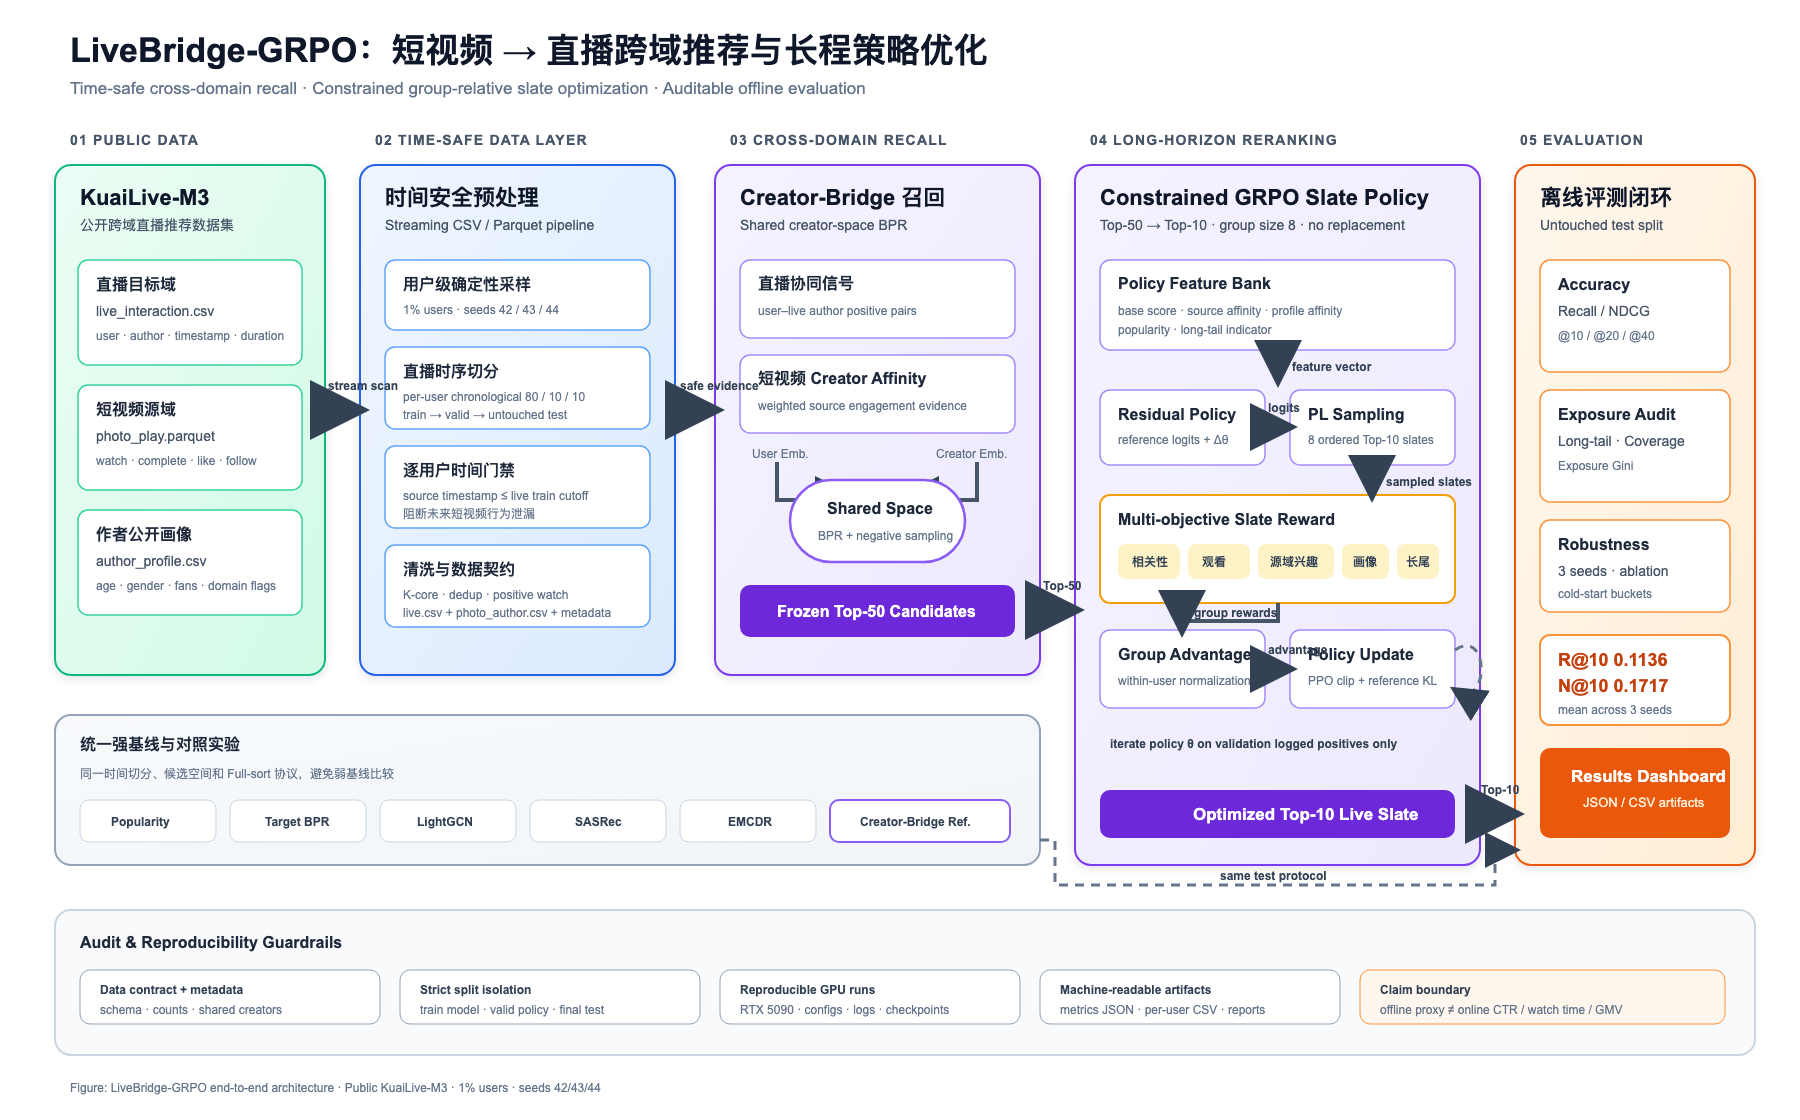
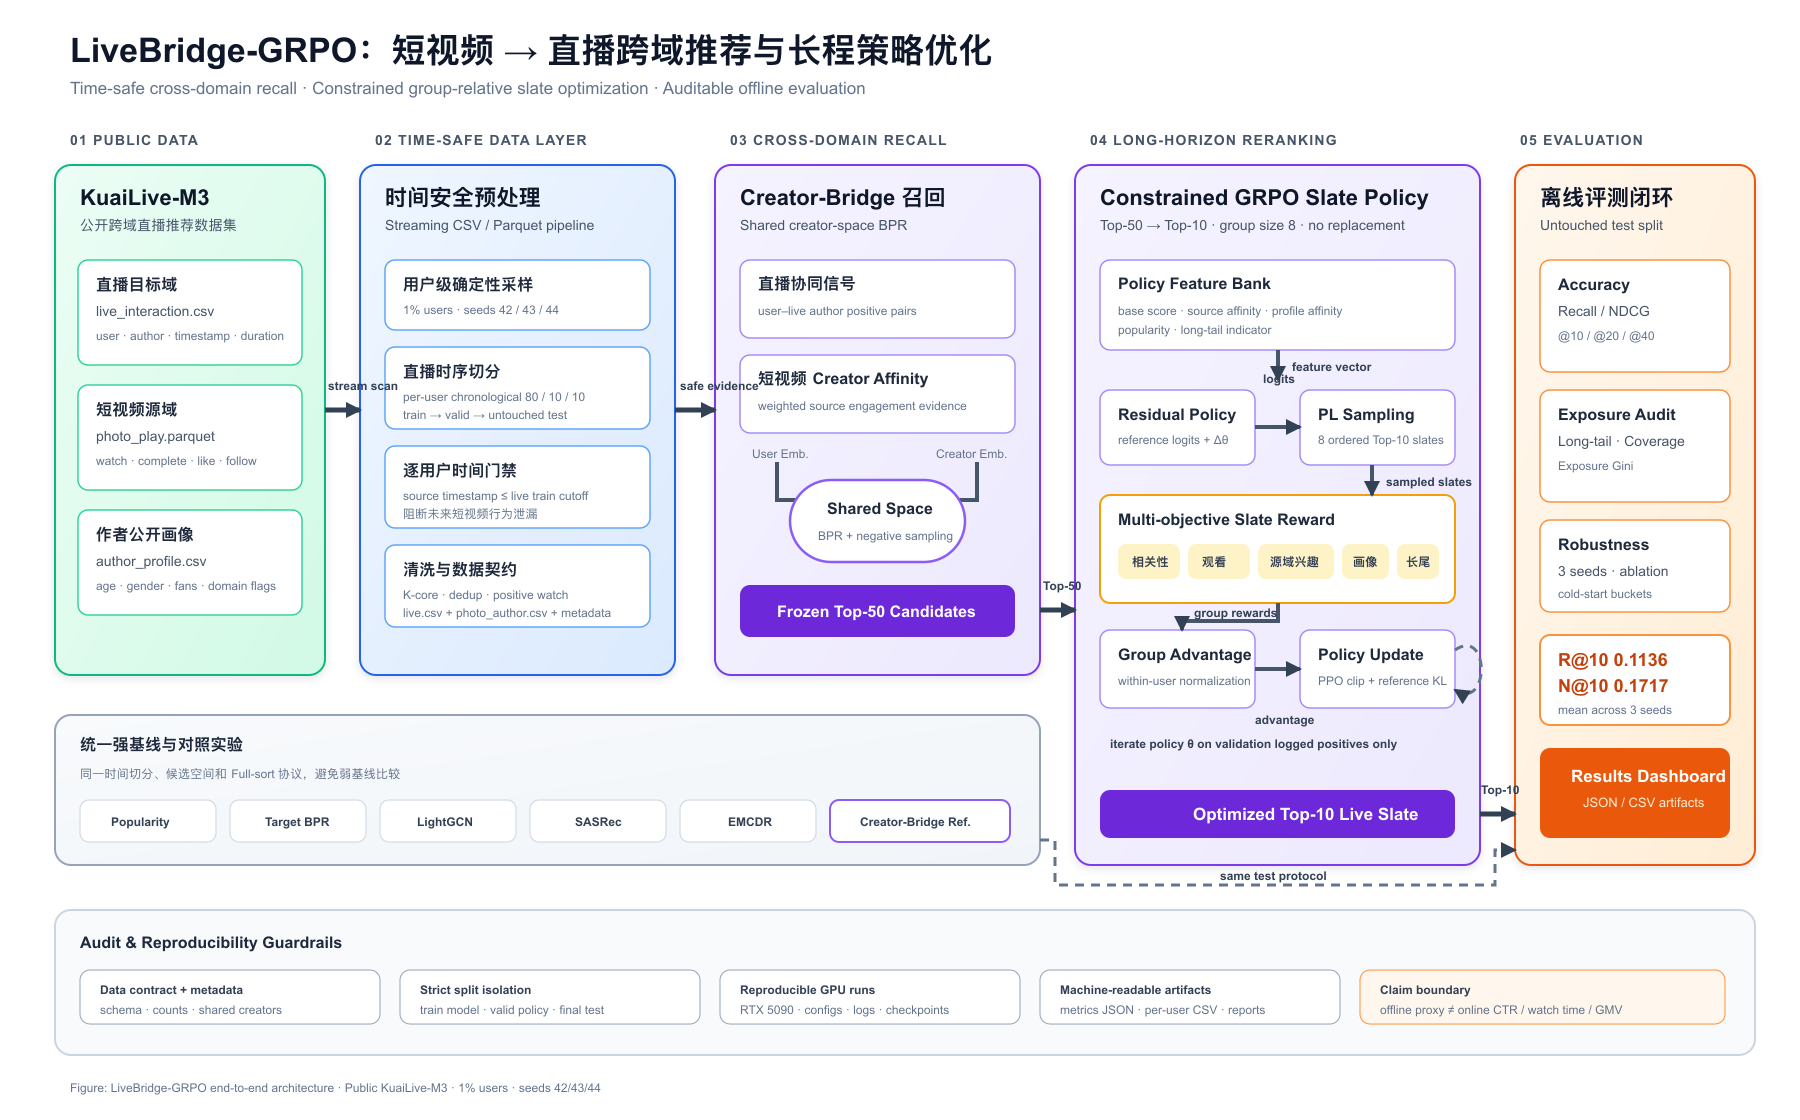
fix architecture diagram arrow rendering

diff --git a/README.md b/README.md
@@ -16,7 +16,7 @@
 
 ## Architecture
 
-![LiveBridge-GenRec architecture](figures/livebridge_architecture.png)
+![LiveBridge-GenRec architecture](docs/livebridge_architecture.svg)
 
 生成式召回分支：[`docs/generative_retrieval_architecture.svg`](docs/generative_retrieval_architecture.svg)。
 
